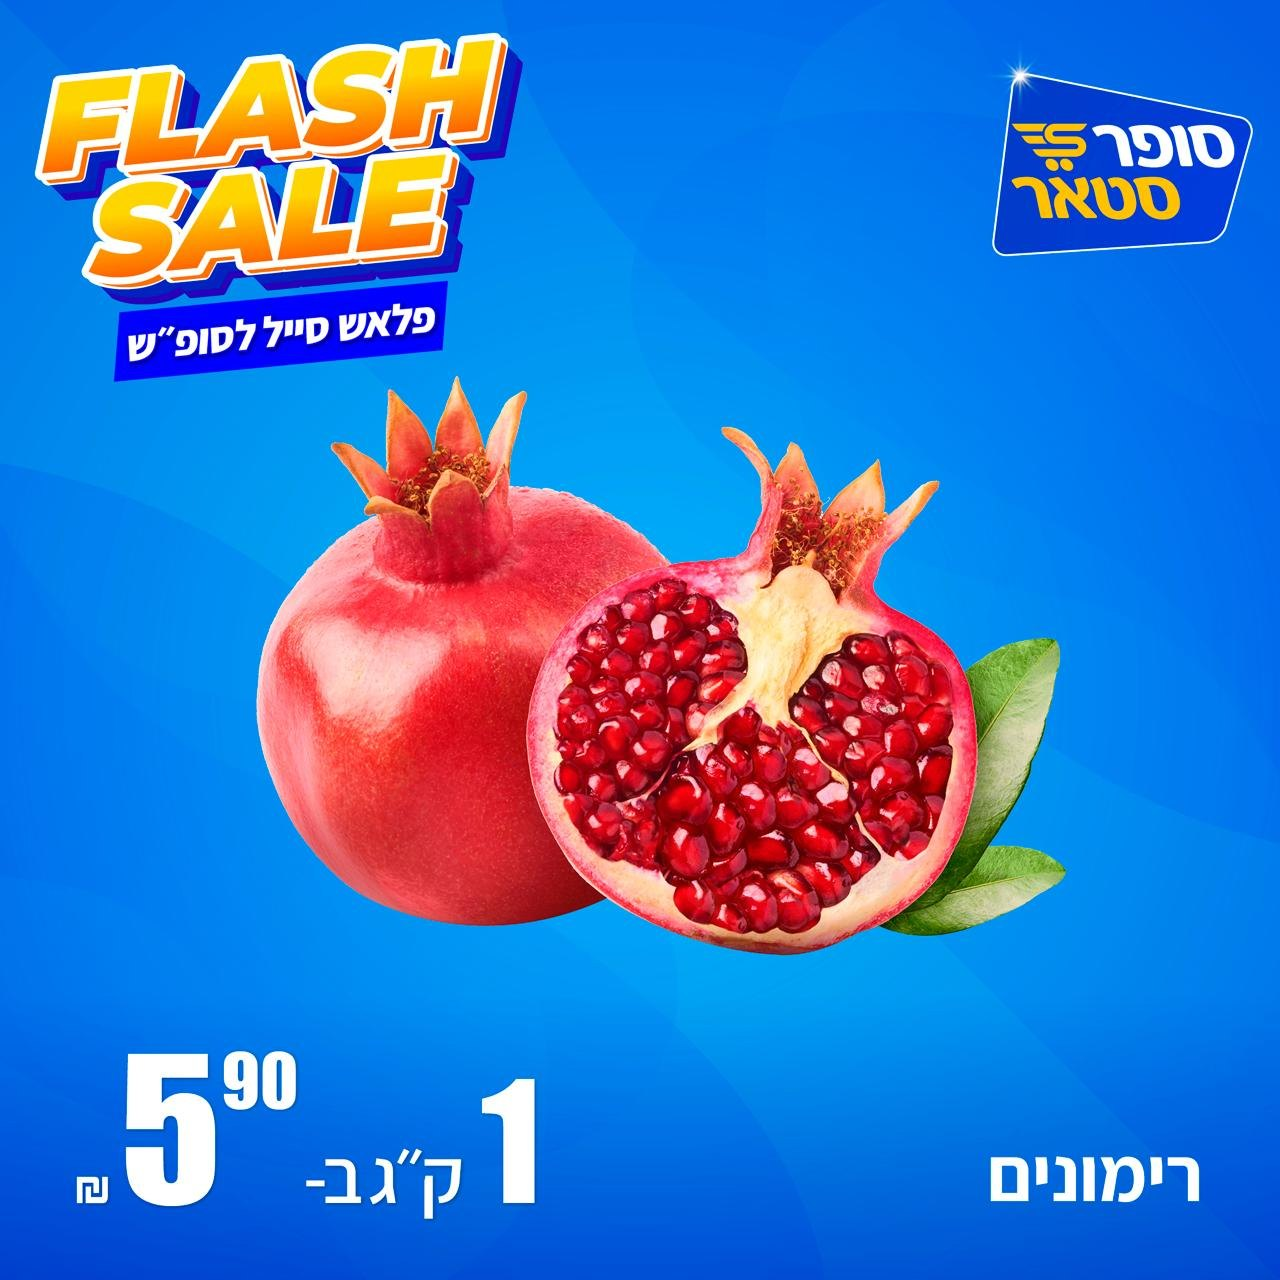
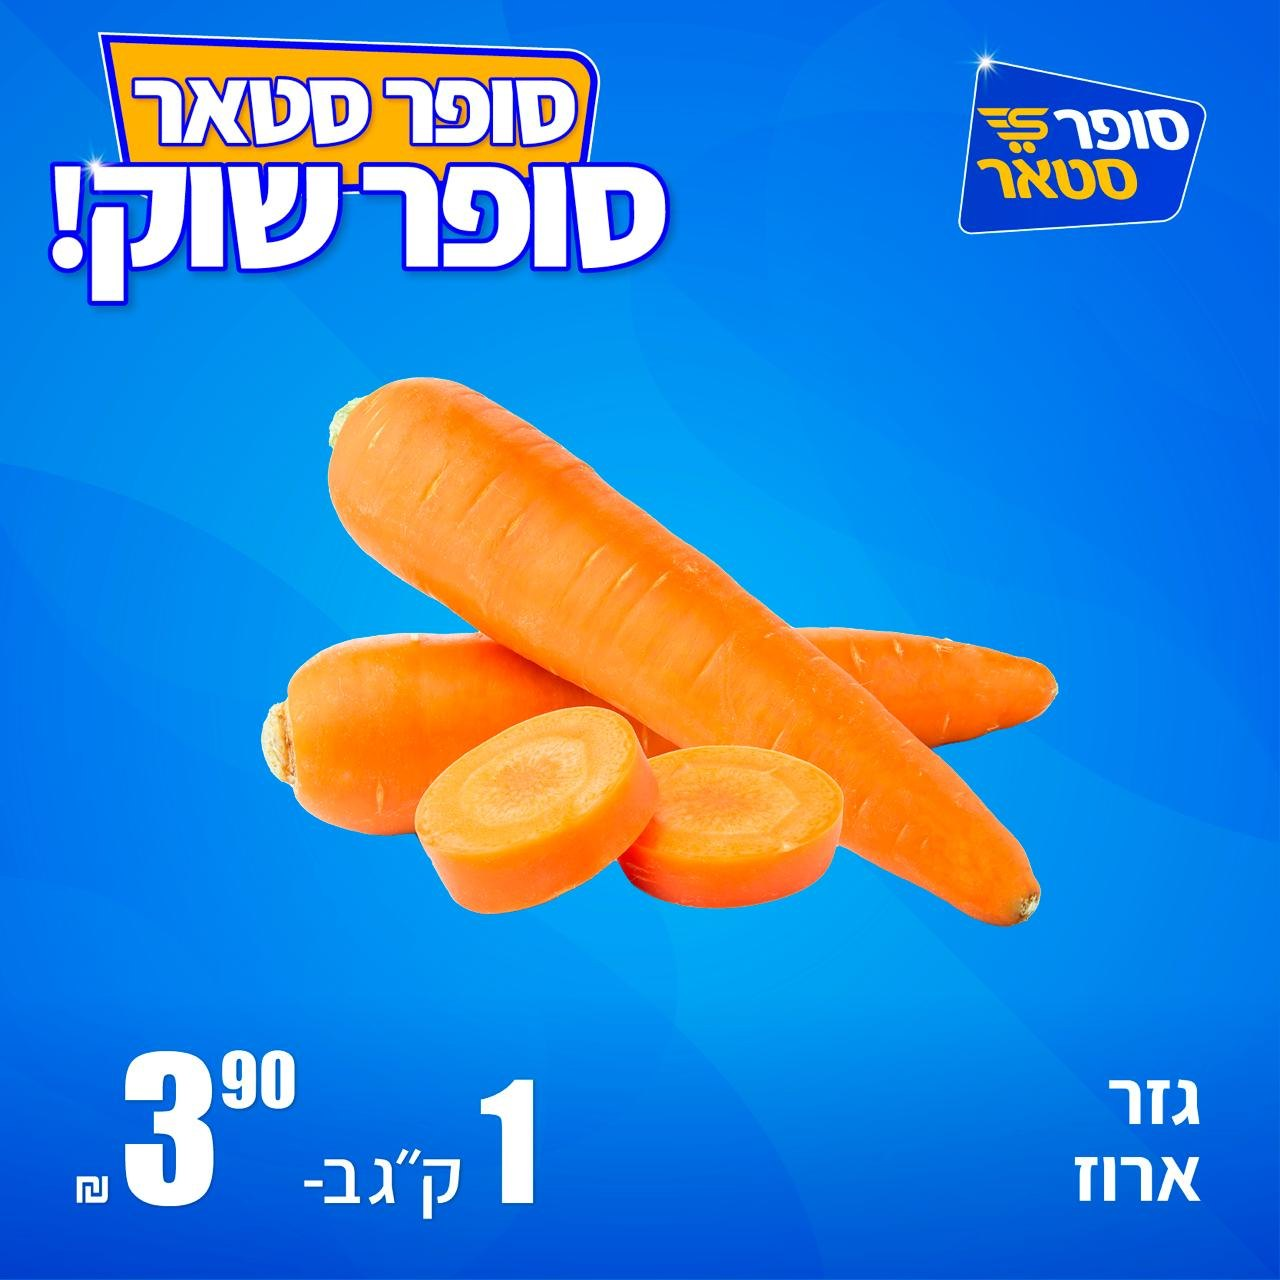
עדכון מבצעים שבועי - 2026-11-08 (28 תמונות, aziz.noor.j@gmail.com)

diff --git a/mivtzaim.html b/mivtzaim.html
@@ -106,6 +106,9 @@
     <img src="/mivtzaim/images/23.jpg" alt="מבצע 23">
     <img src="/mivtzaim/images/24.jpg" alt="מבצע 24">
     <img src="/mivtzaim/images/25.jpg" alt="מבצע 25">
+    <img src="/mivtzaim/images/26.jpg" alt="מבצע 26">
+    <img src="/mivtzaim/images/27.jpg" alt="מבצע 27">
+    <img src="/mivtzaim/images/28.jpg" alt="מבצע 28">
     <!-- IMAGES:END -->
 </div>
 
